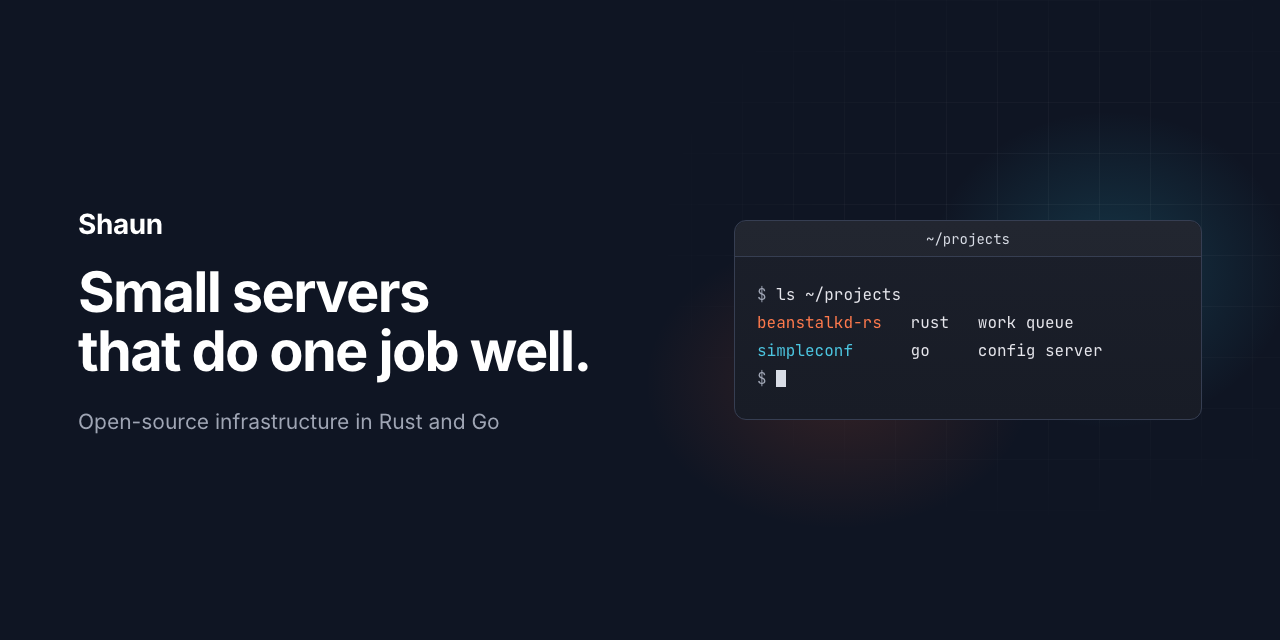
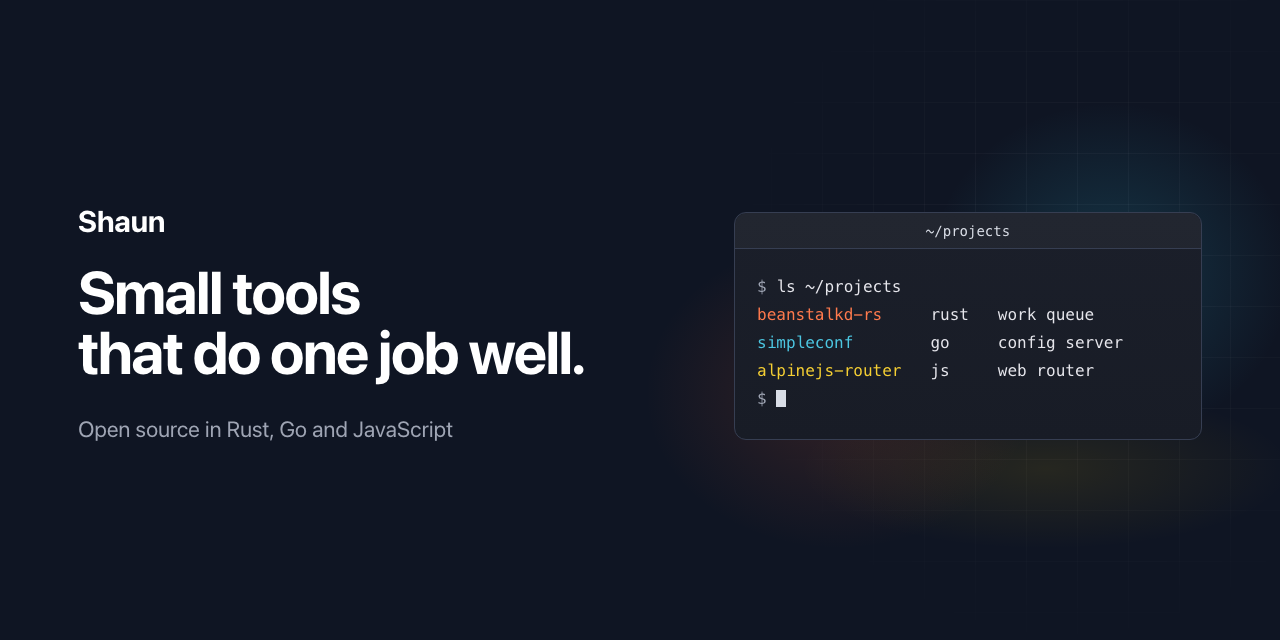
Add alpinejs-router to the home page
Third project row with a yellow accent from the router's trail-map palette,
a third line in the hero terminal, JSON-LD, llms.txt, robots.txt sitemap
and 404 links. The headline broadens from "small servers" in Rust and Go
to "small tools" in Rust, Go and JavaScript; the social preview is
re-rendered to match.

diff --git a/index.html b/index.html
@@ -4,7 +4,7 @@
 <meta charset="utf-8">
 <meta name="viewport" content="width=device-width, initial-scale=1">
 <title>Shaun: full-stack technology leader and open-source developer</title>
-<meta name="description" content="Shaun, full-stack technology leader and former R&amp;D Director (25+ years). Open source: beanstalkd-rs, a Rust work queue, and simpleconf, a Go config server.">
+<meta name="description" content="Shaun, full-stack technology leader and former R&amp;D Director (25+ years). Open source: beanstalkd-rs, a Rust work queue; simpleconf, a Go config server; and alpinejs-router, a router for Alpine.js.">
 <meta name="author" content="Shaun">
 <meta name="robots" content="index, follow, max-image-preview:large, max-snippet:-1">
 <link rel="canonical" href="https://shaunlee.github.io/">
@@ -15,18 +15,18 @@
 <meta property="og:site_name" content="Shaun">
 <meta property="og:locale" content="en_US">
 <meta property="og:title" content="Shaun: full-stack technology leader and open-source developer">
-<meta property="og:description" content="Full-stack technology leader with 25+ years of experience. Open-source projects: beanstalkd-rs, a drop-in beanstalkd replacement in Rust, and simpleconf, a JSON configuration server in Go.">
+<meta property="og:description" content="Full-stack technology leader with 25+ years of experience. Open-source projects: beanstalkd-rs, a drop-in beanstalkd replacement in Rust; simpleconf, a JSON configuration server in Go; and alpinejs-router, a 3.2 kB client-side router for Alpine.js.">
 <meta property="og:url" content="https://shaunlee.github.io/">
 <meta property="og:image" content="https://shaunlee.github.io/images/social-preview.png">
 <meta property="og:image:type" content="image/png">
 <meta property="og:image:width" content="1280">
 <meta property="og:image:height" content="640">
-<meta property="og:image:alt" content="Shaun: small servers that do one job well. Open-source infrastructure in Rust and Go">
+<meta property="og:image:alt" content="Shaun: small tools that do one job well. Open source in Rust, Go and JavaScript">
 <meta name="twitter:card" content="summary_large_image">
 <meta name="twitter:title" content="Shaun: full-stack technology leader and open-source developer">
-<meta name="twitter:description" content="Full-stack technology leader with 25+ years of experience. Open-source projects: beanstalkd-rs, a drop-in beanstalkd replacement in Rust, and simpleconf, a JSON configuration server in Go.">
+<meta name="twitter:description" content="Full-stack technology leader with 25+ years of experience. Open-source projects: beanstalkd-rs, a drop-in beanstalkd replacement in Rust; simpleconf, a JSON configuration server in Go; and alpinejs-router, a 3.2 kB client-side router for Alpine.js.">
 <meta name="twitter:image" content="https://shaunlee.github.io/images/social-preview.png">
-<meta name="twitter:image:alt" content="Shaun: small servers that do one job well. Open-source infrastructure in Rust and Go">
+<meta name="twitter:image:alt" content="Shaun: small tools that do one job well. Open source in Rust, Go and JavaScript">
 <meta name="theme-color" content="#0f1523">
 <meta name="color-scheme" content="dark">
 <link rel="icon" href="favicon.svg" type="image/svg+xml">
@@ -79,6 +79,9 @@
         "Agentic workflows",
         "Rust",
         "Go",
+        "JavaScript",
+        "Alpine.js",
+        "Client-side routing",
         "Message queues",
         "Configuration management",
         "Raft consensus"
@@ -125,6 +128,27 @@
       ]
     },
     {
+      "@type": ["SoftwareApplication", "SoftwareSourceCode"],
+      "@id": "https://shaunlee.github.io/alpinejs-router/#software",
+      "name": "alpinejs-router",
+      "alternateName": "@shaun/alpinejs-router",
+      "description": "A lightweight client-side router for Alpine.js. Routes are declared in HTML with x-route templates and x-link anchors, with dynamic params, external templates, and hash or HTML5 history modes; 3.2 kB gzipped and 6.25M static route matches a second.",
+      "url": "https://shaunlee.github.io/alpinejs-router/",
+      "codeRepository": "https://github.com/shaunlee/alpinejs-router",
+      "programmingLanguage": "JavaScript",
+      "runtimePlatform": "Alpine.js 3",
+      "applicationCategory": "DeveloperApplication",
+      "operatingSystem": "Any (web browser)",
+      "license": "https://opensource.org/licenses/MIT",
+      "author": {
+        "@id": "https://shaunlee.github.io/#person"
+      },
+      "sameAs": [
+        "https://github.com/shaunlee/alpinejs-router",
+        "https://www.npmjs.com/package/@shaun/alpinejs-router"
+      ]
+    },
+    {
       "@type": "ItemList",
       "@id": "https://shaunlee.github.io/#projects",
       "name": "Projects by Shaun",
@@ -141,6 +165,13 @@
           "position": 2,
           "item": {
             "@id": "https://shaunlee.github.io/simpleconf/#software"
+          }
+        },
+        {
+          "@type": "ListItem",
+          "position": 3,
+          "item": {
+            "@id": "https://shaunlee.github.io/alpinejs-router/#software"
           }
         }
       ]
@@ -180,7 +211,7 @@
   <div class="container hero-inner">
     <div class="hero-copy">
       <!-- The eyebrow sits inside the h1 so the heading carries the name; it keeps the look of a separate line. -->
-      <h1><span class="hero-eyebrow">Shaun · Open-source infrastructure in Rust and Go</span> Small servers<br>that do one job well.</h1>
+      <h1><span class="hero-eyebrow">Shaun · Open source in Rust, Go and JavaScript</span> Small tools<br>that do one job well.</h1>
       <p class="hero-lede">Full-stack technology leader with 25+ years of experience evolving alongside the software industry. A veteran architect and former R&amp;D Director who remains deeply hands-on with emerging technologies, specializing in scalable systems, high-performing engineering cultures, and the design and orchestration of AI agents and agentic workflows to accelerate delivery and amplify team capabilities.</p>
       <div class="actions">
         <a class="btn btn-primary" href="#projects">See projects</a>
@@ -190,8 +221,9 @@
     <div class="terminal">
       <div class="terminal-title" aria-hidden="true">~/projects</div>
 <pre class="terminal-body ls"><span class="dim">$</span> ls ~/projects
-<a class="o" href="#beanstalkd-rs">beanstalkd-rs</a>   rust   work queue
-<a class="c" href="#simpleconf">simpleconf</a>      go     config server
+<a class="o" href="#beanstalkd-rs">beanstalkd-rs</a>     rust   work queue
+<a class="c" href="#simpleconf">simpleconf</a>        go     config server
+<a class="y" href="#alpinejs-router">alpinejs-router</a>   js     web router
 <span class="dim">$</span> <span class="cursor" aria-hidden="true"></span></pre>
     </div>
   </div>
@@ -267,6 +299,39 @@
           </div>
         </div>
       </li>
+
+      <li class="project accent-yellow" id="alpinejs-router">
+        <div class="project-copy">
+          <span class="tag">JavaScript</span>
+          <h3><a href="/alpinejs-router/">alpinejs-router</a></h3>
+          <p class="tagline">Routes in your HTML. Alpine renders them.</p>
+          <p class="desc">A client-side router for Alpine.js. Declare routes with <code>x-route</code> templates and <code>x-link</code> anchors, with dynamic params, external templates and hash or HTML5 history. No dependencies besides Alpine.</p>
+          <dl class="figures">
+            <div><dt>3.2 kB</dt><dd>minified and gzipped</dd></div>
+            <div><dt>6.25M</dt><dd>static route matches a second</dd></div>
+          </dl>
+          <div class="chip">
+            <code><span class="prompt">$</span> <span id="cmd-alpinejs-router">npm install @shaun/alpinejs-router</span></code>
+            <button class="copy" type="button" data-copy="cmd-alpinejs-router" aria-label="Copy the alpinejs-router install command"><svg class="idle" aria-hidden="true"><use href="#copy"/></svg><svg class="ok" aria-hidden="true"><use href="#check"/></svg></button>
+          </div>
+          <p class="links">
+            <a class="primary" href="/alpinejs-router/">Website<span class="sr-only"> of alpinejs-router</span>&nbsp;<span aria-hidden="true">→</span></a>
+            <a href="https://github.com/shaunlee/alpinejs-router">GitHub<span class="sr-only"> repository of alpinejs-router</span></a>
+            <a href="https://www.npmjs.com/package/@shaun/alpinejs-router">npm</a>
+          </p>
+        </div>
+        <div class="preview">
+          <div class="doc" role="img" aria-label="HTML for a route: an x-link anchor to /users/42 and an x-route template for /users/:id that shows the id param">
+            <div class="doc-title">index.html</div>
+<pre class="doc-body html" aria-hidden="true"><span class="t">&lt;a</span> <span class="at">x-link</span> <span class="at">href</span>=<span class="s">"/users/42"</span><span class="t">&gt;</span>User 42<span class="t">&lt;/a&gt;</span>
+
+<span class="hl"><span class="t">&lt;template</span> <span class="at">x-route</span>=<span class="s">"/users/:id"</span><span class="t">&gt;</span></span>
+  <span class="t">&lt;h1&gt;</span>User #<span class="t">&lt;span</span>
+    <span class="at">x-text</span>=<span class="s">"$router.params.id"</span><span class="t">&gt;&lt;/span&gt;&lt;/h1&gt;</span>
+<span class="t">&lt;/template&gt;</span></pre>
+          </div>
+        </div>
+      </li>
     </ol>
   </div>
 </section>
@@ -282,6 +347,7 @@
     <nav aria-label="Elsewhere">
       <a href="https://github.com/shaunlee">GitHub</a>
       <a href="https://hub.docker.com/u/shonhen">Docker Hub</a>
+      <a href="https://www.npmjs.com/~shaun">npm</a>
     </nav>
   </div>
 </footer>

diff --git a/style.css b/style.css
@@ -30,11 +30,14 @@
   --orange-text: #ff7a4d;
   --cyan: #2fb8d6;
   --cyan-text: #4cc6e1;
+  --yellow: #f2c200;
+  --yellow-text: #f5cf33;
 }
 
 /* Each project row carries its own accent and nothing else does. */
 .accent-orange { --a: var(--orange); --a-text: var(--orange-text); --a-rgb: 239, 96, 49; }
 .accent-cyan { --a: var(--cyan); --a-text: var(--cyan-text); --a-rgb: 47, 184, 214; }
+.accent-yellow { --a: var(--yellow); --a-text: var(--yellow-text); --a-rgb: 242, 194, 0; }
 
 *, *::before, *::after { box-sizing: border-box; }
 html { -webkit-text-size-adjust: 100%; scroll-behavior: smooth; }
@@ -54,7 +57,7 @@ p { margin: 0; }
 code, pre { font-family: var(--mono); font-variant-ligatures: none; font-feature-settings: "calt" 0, "liga" 0; }
 button { font: inherit; color: inherit; }
 :focus-visible { outline: 2px solid var(--fg); outline-offset: 3px; border-radius: 4px; }
-.accent-orange :focus-visible, .accent-cyan :focus-visible { outline-color: var(--a); }
+.accent-orange :focus-visible, .accent-cyan :focus-visible, .accent-yellow :focus-visible { outline-color: var(--a); }
 
 .sr-only {
   position: absolute; width: 1px; height: 1px; padding: 0; margin: -1px;
@@ -122,17 +125,19 @@ button { font: inherit; color: inherit; }
 .terminal-body { margin: 0; padding: 24px 22px 26px; font-size: 16px; line-height: 28px; color: #e6e6ec; white-space: pre; overflow-x: auto; }
 .terminal-body .dim { color: var(--muted); }
 
-/* Hero terminal: both accents meet behind it, one from each side. */
+/* Hero terminal: the three accents meet behind it. */
 .hero .terminal::before {
   content: ""; position: absolute; inset: -110px -90px; z-index: -1; pointer-events: none;
   background:
     radial-gradient(closest-side at 30% 65%, rgba(239, 96, 49, .16), transparent),
-    radial-gradient(closest-side at 72% 38%, rgba(47, 184, 214, .20), transparent);
+    radial-gradient(closest-side at 72% 38%, rgba(47, 184, 214, .20), transparent),
+    radial-gradient(closest-side at 62% 82%, rgba(242, 194, 0, .10), transparent);
 }
 .ls a { padding: 4px 0; border-radius: 3px; text-decoration: underline; text-decoration-color: transparent; text-underline-offset: 4px; transition: text-decoration-color .15s; }
 .ls a:hover { text-decoration-color: currentColor; }
 .ls .o { color: var(--orange-text); }
 .ls .c { color: var(--cyan-text); }
+.ls .y { color: var(--yellow-text); }
 .cursor { display: inline-block; width: .6em; height: 1.1em; vertical-align: -.2em; background: var(--text); animation: blink 1.1s steps(1) infinite; }
 @keyframes blink { 50% { opacity: 0; } }
 @media (prefers-reduced-motion: reduce) {
@@ -168,6 +173,7 @@ button { font: inherit; color: inherit; }
 .project h3 a:hover { color: var(--a-text); }
 .tagline { color: var(--fg); font-size: 21px; font-weight: 500; letter-spacing: -0.01em; margin-top: 8px; }
 .desc { color: var(--muted); font-size: 17px; line-height: 1.55; margin-top: 14px; max-width: 34em; }
+.desc code { white-space: nowrap; }
 
 .figures { display: grid; grid-template-columns: repeat(2, minmax(0, max-content)); justify-content: start; margin: 26px 0 0; }
 .figures div { padding-right: 32px; }
@@ -215,10 +221,12 @@ button { font: inherit; color: inherit; }
 .doc { background: linear-gradient(180deg, #1c2335, #19202f); border: 1px solid var(--line-strong); border-radius: var(--radius); }
 .doc-title { height: 44px; padding: 0 18px; display: flex; align-items: center; font: 400 15px/1 var(--mono); color: var(--text); border-bottom: 1px solid #2b3550; }
 .doc-body { margin: 0; padding: 16px 18px 18px; font-size: 15px; line-height: 27px; color: var(--text); white-space: pre; overflow-x: auto; }
-.doc-body .hl { display: inline-block; margin-left: -8px; padding: 2px 8px; line-height: 23px; border-radius: 6px; background: rgba(47, 184, 214, .2); }
+.doc-body .hl { display: inline-block; margin-left: -8px; padding: 2px 8px; line-height: 23px; border-radius: 6px; background: rgba(var(--a-rgb), .2); }
 .doc-body .k { color: #6fd3ea; }
 .doc-body .s { color: #a5e8a0; }
 .doc-body .n { color: #f0b46a; }
+.doc-body.html .t { color: #8f9bb3; }
+.doc-body.html .at { color: var(--yellow-text); }
 
 /* Footer */
 .footer { margin-top: 112px; border-top: 1px solid var(--line); padding: 32px 0 56px; }

diff --git a/404.html b/404.html
@@ -26,7 +26,7 @@
 <main class="container notfound">
   <p class="eyebrow">404</p>
   <h1>This page does not exist.</h1>
-  <p class="sub">The projects have their own sites: <a href="/beanstalkd-rs/">beanstalkd-rs</a> and <a href="/simpleconf/">simpleconf</a>.</p>
+  <p class="sub">The projects have their own sites: <a href="/beanstalkd-rs/">beanstalkd-rs</a>, <a href="/simpleconf/">simpleconf</a> and <a href="/alpinejs-router/">alpinejs-router</a>.</p>
   <div class="actions">
     <a class="btn btn-primary" href="/">Go to the home page</a>
     <a class="btn btn-outline" href="https://github.com/shaunlee">github.com/shaunlee</a>
